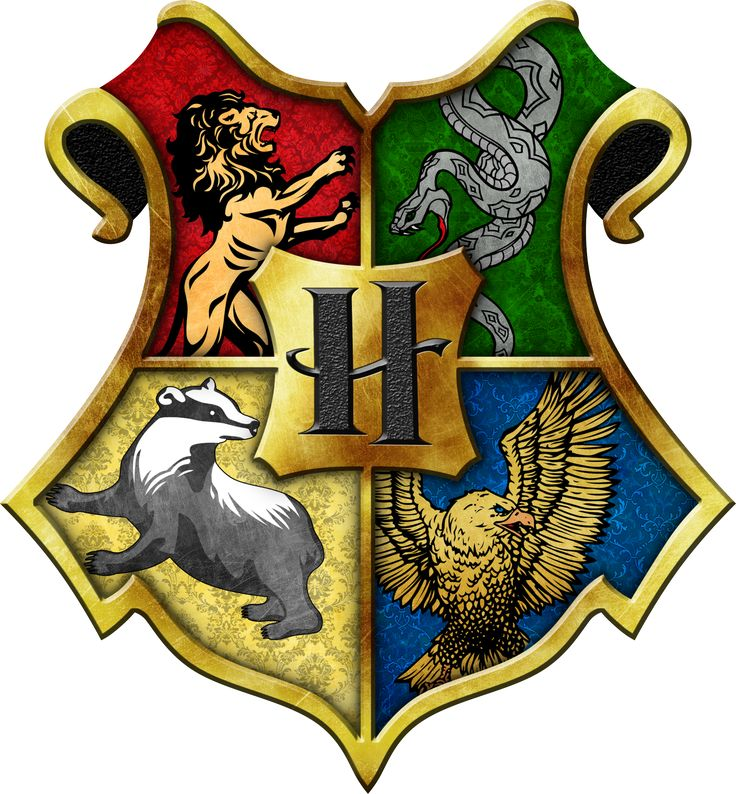
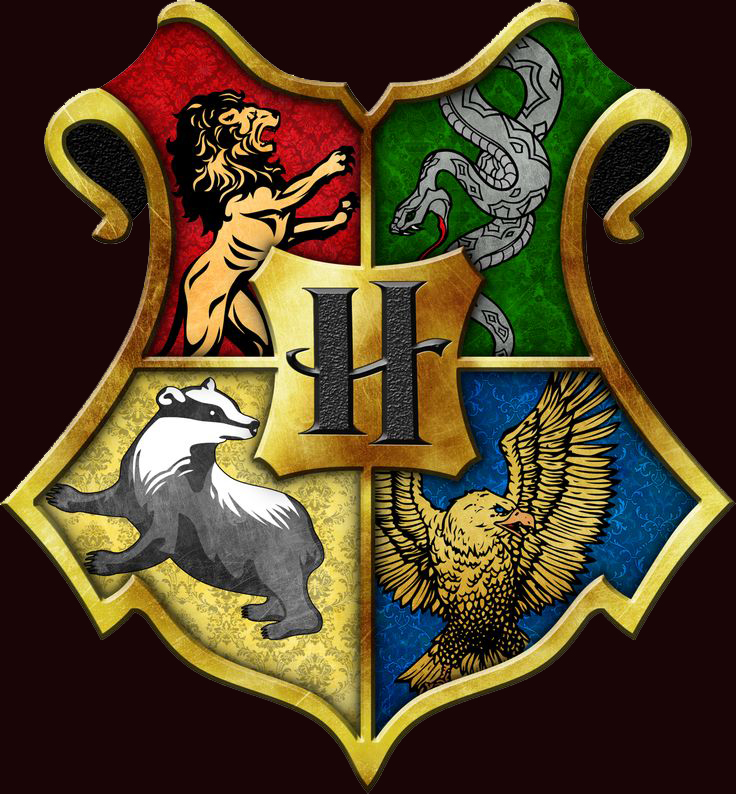
Made it follow CRUD

diff --git a/public/styles.css b/public/styles.css
@@ -1,18 +1,34 @@
 
 body {
   text-align: center;
-  background-color: #800028;
+  background: url('/bg.jpg') no-repeat center center fixed;
+        -webkit-background-size: cover;
+        -moz-background-size: cover;
+        -o-background-size: cover;
+        background-size: cover;
   font-size: 22px;
   font-weight: bold;
+  color: white;
+}
+
+#form {
+    position:absolute;
+    top:50%;
+    right:0;
+    left:0;
 }
 
 a {
-  color: black
+  color: white
+}
+
+form {
+  text-align: center;
 }
 
 #magic {
-  color: #800000;
-  background-color: #800000;
+  color: #190500;
+  background-color: #190500;
 }
 
 img {
@@ -23,4 +39,14 @@ img {
 #logo {
   height: 200px;
   width: auto;
+}
+
+ul{
+  position:relative;
+  display: inline-block;
+  list-style: none;
+  width:100%;
+  text-align: center;
+  margin: auto;
+  padding: 0;
 }

diff --git a/controller.rb b/controller.rb
@@ -4,8 +4,11 @@ require_relative('./models/students')
 require_relative('./models/houses')
 also_reload('./models/*')
 
-
 get '/hogwarts' do
+  erb(:home)
+end
+
+get '/hogwarts/all' do
   @students = Student.all
   erb(:index)
 end
@@ -20,7 +23,25 @@ post '/hogwarts' do
   erb(:create)
 end
 
+post '/hogwarts/:id/delete' do
+  @student = Student.find(params[:id])
+  @student.delete()
+  redirect to '/hogwarts/all'
+end
+
 get '/hogwarts/:id' do
   @student = Student.find(params[:id])
   erb(:show)
+end
+
+get '/hogwarts/:id/edit' do
+  @houses = House.all
+  @student = Student.find(params[:id])
+  erb(:edit)
+end
+
+post '/hogwarts/:id' do
+  @student = Student.new(params)
+  @student.update()
+  erb(:update)
 end

diff --git a/models/students.rb b/models/students.rb
@@ -54,4 +54,21 @@ class Student
     return House.new(result[0])
   end
 
+  def update()
+    sql='UPDATE students
+    SET (
+    first_name, second_name, house_id, age) = (
+    $1, $2, $3, $4)
+    WHERE id = $5'
+    values = [@first_name, @second_name, @house_id, @age, @id]
+    SqlRunner.run(sql,values)
+  end
+
+  def delete()
+    sql = "DELETE FROM students
+    WHERE id = $1;"
+    values = [@id]
+    SqlRunner.run( sql, values )
+  end
+
 end

diff --git a/models/houses.rb b/models/houses.rb
@@ -44,5 +44,14 @@ class House
     SqlRunner.run(sql)
   end
 
+  def update()
+    sql='UPDATE houses
+    SET (
+    name, logo) = ($1, $2)
+    WHERE id =$3'
+    values = [@name, @logo, @id]
+    SqlRunner.run(sql,values)
+  end
+
 
 end
